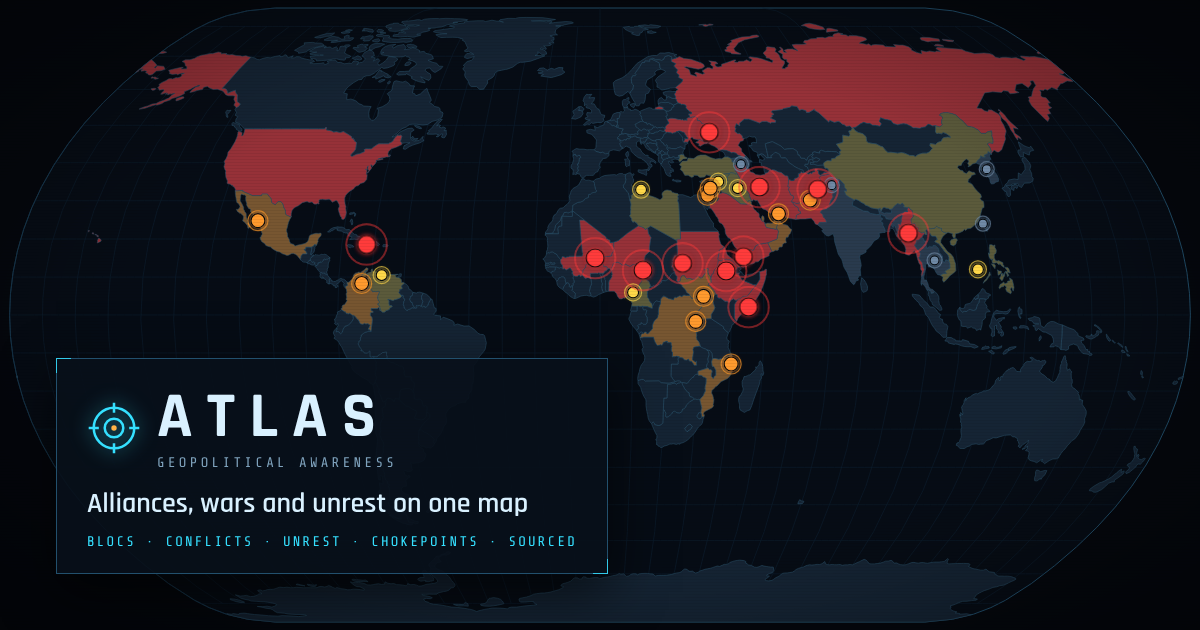
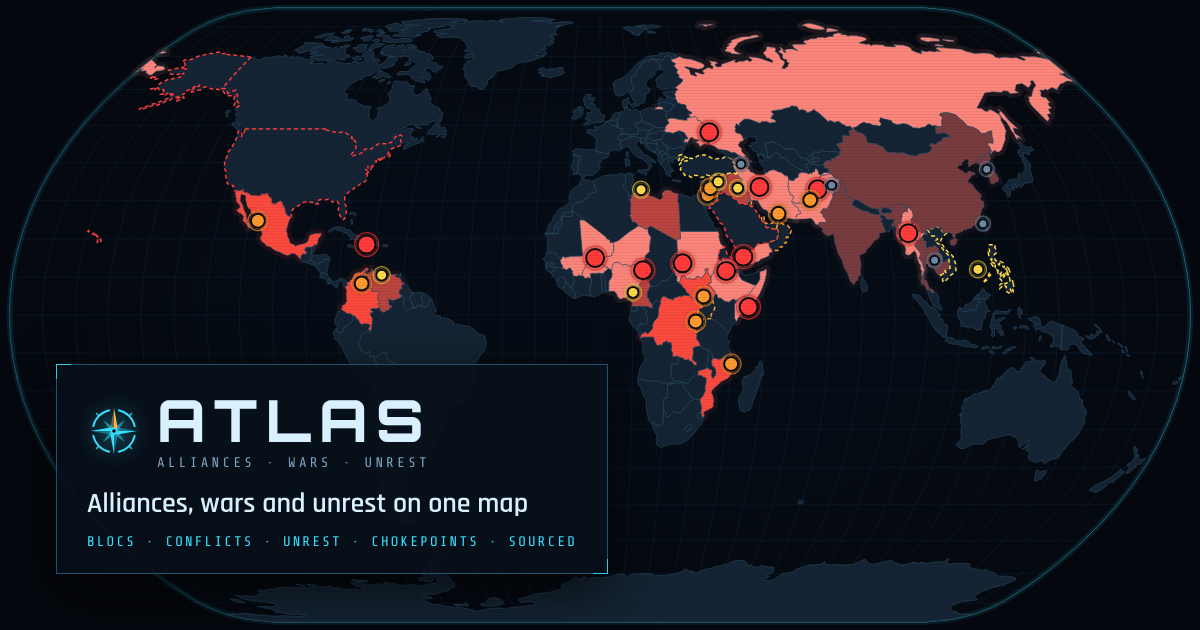
brand: a sci-fi compass-rose mark and an Orbitron wordmark
- The target mark becomes a compass rose: four faceted cardinal points
  (north in the warning amber), thin intercardinals, a segmented ring
  with ticks and a hollow centre. Its path data lives once in
  src/lib/brandMark.ts; the React logo draws from it and a test checks
  the static copies (first-paint shell, favicon, social-card script).
- The ATLAS wordmark is set in Orbitron ExtraBold, self-hosted (6.7 KB,
  OFL) and preloaded, with font-display: block so the header never
  reflows from a narrower fallback. Phone sizes and tracking are
  adjusted so the header keeps its rows down to 360px.
- The first-paint shell now shows the same tagline as the app
  (ALLIANCES · WARS · UNREST), so nothing changes when React mounts.
- public/og.png regenerated with the new mark.

Claude-Session: https://claude.ai/code/session_013s4Cx1SM7Foi6xKpUdKBZK

diff --git a/index.html b/index.html
@@ -41,6 +41,7 @@
     <link rel="icon" href="/favicon.svg" type="image/svg+xml" />
     <link rel="alternate" type="application/rss+xml" title="ATLAS: geopolitical changes" href="/feed.xml" />
     <link rel="alternate" type="application/feed+json" title="ATLAS: geopolitical changes (JSON Feed)" href="/feed.json" />
+    <link rel="preload" href="/fonts/orbitron-latin-800-normal.woff2" as="font" type="font/woff2" crossorigin />
     <link rel="preload" href="/fonts/share-tech-mono-latin-400-normal.woff2" as="font" type="font/woff2" crossorigin />
     <link rel="preload" href="/fonts/rajdhani-latin-500-normal.woff2" as="font" type="font/woff2" crossorigin />
     <link rel="preload" href="/fonts/rajdhani-latin-600-normal.woff2" as="font" type="font/woff2" crossorigin />
@@ -53,14 +54,22 @@
         <header class="header">
           <span class="brand">
             <svg viewBox="0 0 32 32" aria-hidden="true">
-              <circle cx="16" cy="16" r="12" fill="none" stroke="currentColor" stroke-width="1.5" />
-              <circle cx="16" cy="16" r="5.5" fill="none" stroke="currentColor" stroke-width="1.5" />
-              <path d="M16 1v6M16 25v6M1 16h6M25 16h6" stroke="currentColor" stroke-width="1.5" />
-              <circle cx="16" cy="16" r="1.6" fill="var(--warn)" />
+              <path d="M18.83 3.72A12.6 12.6 0 0 1 28.28 13.17M28.28 18.83A12.6 12.6 0 0 1 18.83 28.28M13.17 28.28A12.6 12.6 0 0 1 3.72 18.83M3.72 13.17A12.6 12.6 0 0 1 13.17 3.72" fill="none" stroke="currentColor" stroke-width="1.1" stroke-linecap="round" />
+              <path d="M25.05 6.95L26.32 5.68M25.05 25.05L26.32 26.32M6.95 25.05L5.68 26.32M6.95 6.95L5.68 5.68" stroke="currentColor" stroke-width="1.1" stroke-linecap="round" opacity="0.7" />
+              <path d="M22.51 9.49L18.10 16L16 16L16 13.90ZM22.51 22.51L16 18.10L16 16L18.10 16ZM9.49 22.51L13.90 16L16 16L16 18.10ZM9.49 9.49L16 13.90L16 16L13.90 16Z" fill="currentColor" opacity="0.5" />
+              <path d="M16 2.20L18.12 13.88L16 16Z" fill="var(--warn)" />
+              <path d="M16 2.20L16 16L13.88 13.88Z" fill="var(--warn)" opacity="0.38" />
+              <path d="M29.80 16L18.12 18.12L16 16Z" fill="currentColor" />
+              <path d="M29.80 16L16 16L18.12 13.88Z" fill="currentColor" opacity="0.38" />
+              <path d="M16 29.80L13.88 18.12L16 16Z" fill="currentColor" />
+              <path d="M16 29.80L16 16L18.12 18.12Z" fill="currentColor" opacity="0.38" />
+              <path d="M2.20 16L13.88 13.88L16 16Z" fill="currentColor" />
+              <path d="M2.20 16L16 16L13.88 18.12Z" fill="currentColor" opacity="0.38" />
+              <circle cx="16" cy="16" r="1.5" fill="var(--bg)" stroke="currentColor" stroke-width="0.9" />
             </svg>
             <span>
               <span class="word">ATLAS</span>
-              <span class="tag">GEOPOLITICAL AWARENESS</span>
+              <span class="tag">ALLIANCES · WARS · UNREST</span>
             </span>
           </span>
         </header>

diff --git a/src/App.tsx b/src/App.tsx
@@ -30,6 +30,7 @@ import ThemeToggle from './components/ThemeToggle';
 import HeaderReadouts from './components/HeaderReadouts';
 import ThisWeek from './components/ThisWeek';
 import { DATA_ASOF, PROMISE, PROMISE_SHORT } from './lib/frontdoor';
+import { MARK_CARDINALS, MARK_INTERCARDINALS, MARK_RING, MARK_TICKS } from './lib/brandMark';
 import Ticker from './components/Ticker';
 import SinceLastVisit from './components/SinceLastVisit';
 import { watchItemResolves } from './lib/feed';
@@ -119,13 +120,23 @@ function untrackedAt(month: string | null): Array<(typeof CONFLICTS)[number]> {
   return month ? CONFLICTS.filter((c) => replayAt(c, month).untracked) : [];
 }
 
+/** The compass-rose mark (src/lib/brandMark.ts). */
 function Logo() {
   return (
     <svg viewBox="0 0 32 32" aria-hidden="true">
-      <circle cx="16" cy="16" r="12" fill="none" stroke="currentColor" strokeWidth="1.5" />
-      <circle cx="16" cy="16" r="5.5" fill="none" stroke="currentColor" strokeWidth="1.5" />
-      <path d="M16 1v6M16 25v6M1 16h6M25 16h6" stroke="currentColor" strokeWidth="1.5" />
-      <circle cx="16" cy="16" r="1.6" fill="var(--warn)" />
+      <path d={MARK_RING} fill="none" stroke="currentColor" strokeWidth="1.1" strokeLinecap="round" />
+      <path d={MARK_TICKS} stroke="currentColor" strokeWidth="1.1" strokeLinecap="round" opacity="0.7" />
+      <path d={MARK_INTERCARDINALS} fill="currentColor" opacity="0.5" />
+      {MARK_CARDINALS.map((c) => {
+        const fill = c.name === 'N' ? 'var(--warn)' : 'currentColor';
+        return (
+          <g key={c.name}>
+            <path d={c.lit} fill={fill} />
+            <path d={c.shade} fill={fill} opacity="0.38" />
+          </g>
+        );
+      })}
+      <circle cx="16" cy="16" r="1.5" fill="var(--bg)" stroke="currentColor" strokeWidth="0.9" />
     </svg>
   );
 }

diff --git a/src/lib/brandMark.ts b/src/lib/brandMark.ts
@@ -1,0 +1,17 @@
+/**
+ * The ATLAS mark: a sci-fi compass rose. Four faceted cardinal points (north in
+ * the warning amber), thin intercardinal points, a segmented ring with ticks and a
+ * hollow centre, on a 32×32 grid. Path data lives here once; the React logo draws
+ * from it, and brandMark.test.ts checks that the static copies (the first-paint
+ * shell in index.html, public/favicon.svg and scripts/build-og.mjs) still match.
+ */
+export const MARK_RING = 'M18.83 3.72A12.6 12.6 0 0 1 28.28 13.17M28.28 18.83A12.6 12.6 0 0 1 18.83 28.28M13.17 28.28A12.6 12.6 0 0 1 3.72 18.83M3.72 13.17A12.6 12.6 0 0 1 13.17 3.72';
+export const MARK_TICKS = 'M25.05 6.95L26.32 5.68M25.05 25.05L26.32 26.32M6.95 25.05L5.68 26.32M6.95 6.95L5.68 5.68';
+export const MARK_INTERCARDINALS = 'M22.51 9.49L18.10 16L16 16L16 13.90ZM22.51 22.51L16 18.10L16 16L18.10 16ZM9.49 22.51L13.90 16L16 16L16 18.10ZM9.49 9.49L16 13.90L16 16L13.90 16Z';
+/** Each cardinal point as its lit half and its shaded half. */
+export const MARK_CARDINALS = [
+  { name: 'N', lit: 'M16 2.20L18.12 13.88L16 16Z', shade: 'M16 2.20L16 16L13.88 13.88Z' },
+  { name: 'E', lit: 'M29.80 16L18.12 18.12L16 16Z', shade: 'M29.80 16L16 16L18.12 13.88Z' },
+  { name: 'S', lit: 'M16 29.80L13.88 18.12L16 16Z', shade: 'M16 29.80L16 16L18.12 18.12Z' },
+  { name: 'W', lit: 'M2.20 16L13.88 13.88L16 16Z', shade: 'M2.20 16L16 16L13.88 18.12Z' },
+] as const;

diff --git a/src/styles/global.css b/src/styles/global.css
@@ -14,6 +14,8 @@
 :root {
   color-scheme: dark light;
   --font: 'Rajdhani', 'Rajdhani Fallback', 'Rajdhani Fallback Roboto', 'Segoe UI', system-ui, sans-serif;
+  /* The wordmark's face: wide, squared capitals for the HUD title. */
+  --brand-font: 'Orbitron', var(--font);
   --mono: 'Share Tech Mono', 'Share Tech Mono Fallback', 'Share Tech Mono Fallback Consolas', ui-monospace, SFMono-Regular, Menlo, monospace;
 
   --bg: light-dark(#dfe7ee, #04070d);
@@ -212,17 +214,19 @@ a {
 }
 
 .brand svg {
-  width: 26px;
-  height: 26px;
+  width: 28px;
+  height: 28px;
   color: var(--accent);
   filter: drop-shadow(0 0 6px color-mix(in srgb, var(--accent) 60%, transparent));
 }
 
 .brand .word {
-  font-weight: 700;
-  font-size: 20px;
-  letter-spacing: 0.22em;
+  font-family: var(--brand-font);
+  font-weight: 800;
+  font-size: 19px;
+  letter-spacing: 0.14em;
   line-height: 1;
+  text-shadow: 0 0 12px var(--hud-glow-faint);
 }
 
 .brand .tag {
@@ -1249,8 +1253,8 @@ a {
 
 @media (max-width: 820px) {
   .brand .word {
-    font-size: 18px;
-    letter-spacing: 0.16em;
+    font-size: 16px;
+    letter-spacing: 0.1em;
   }
 
   .segmented button {
@@ -3531,7 +3535,7 @@ a {
   }
 
   .brand .word {
-    letter-spacing: 0.1em;
+    letter-spacing: 0.06em;
   }
 
   .segmented button {

diff --git a/src/lib/brandMark.test.ts b/src/lib/brandMark.test.ts
@@ -1,0 +1,23 @@
+import { readFileSync } from 'node:fs';
+import { describe, expect, it } from 'vitest';
+import { MARK_CARDINALS, MARK_INTERCARDINALS, MARK_RING, MARK_TICKS } from './brandMark';
+
+const read = (rel: string) => readFileSync(new URL(rel, import.meta.url), 'utf8');
+
+const PATHS = [MARK_RING, MARK_TICKS, MARK_INTERCARDINALS, ...MARK_CARDINALS.flatMap((c) => [c.lit, c.shade])];
+
+describe('brand mark: the static copies match the React logo', () => {
+  it.each([
+    ['the first-paint shell in index.html', '../../index.html'],
+    ['public/favicon.svg', '../../public/favicon.svg'],
+    ['the social card script', '../../scripts/build-og.mjs'],
+  ])('%s draws the same compass rose', (_name, rel) => {
+    const src = read(rel);
+    for (const d of PATHS) expect(src).toContain(`d="${d}"`);
+  });
+
+  it('north is the one amber point', () => {
+    expect(MARK_CARDINALS.map((c) => c.name)).toEqual(['N', 'E', 'S', 'W']);
+    expect(read('../../public/favicon.svg').match(/#ffb347/g)).toHaveLength(2);
+  });
+});

diff --git a/src/styles/fonts.css b/src/styles/fonts.css
@@ -14,6 +14,18 @@
   unicode-range: U+0000-00FF, U+0131, U+0152-0153, U+02BB-02BC, U+02C6, U+02DA, U+02DC, U+0304, U+0308, U+0329, U+2000-206F, U+20AC, U+2122, U+2191, U+2193, U+2212, U+2215, U+FEFF, U+FFFD;
 }
 
+/* The ATLAS wordmark only (see --brand-font). Five capitals, one small file,
+   preloaded; block rather than swap so the header never flashes a narrower
+   fallback word and reflows. */
+@font-face {
+  font-family: 'Orbitron';
+  font-style: normal;
+  font-weight: 800;
+  font-display: block;
+  src: url('/fonts/orbitron-latin-800-normal.woff2') format('woff2');
+  unicode-range: U+0000-00FF;
+}
+
 @font-face {
   font-family: 'Rajdhani';
   font-style: normal;
